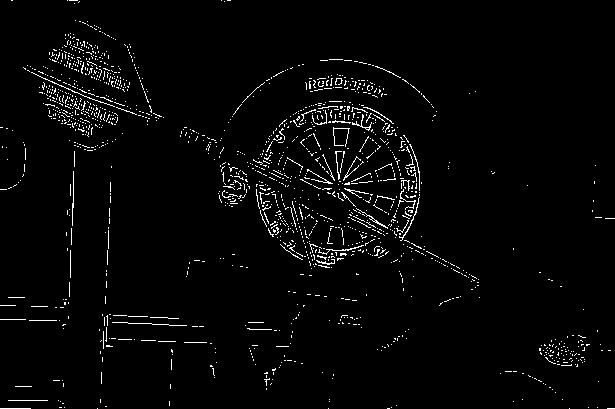
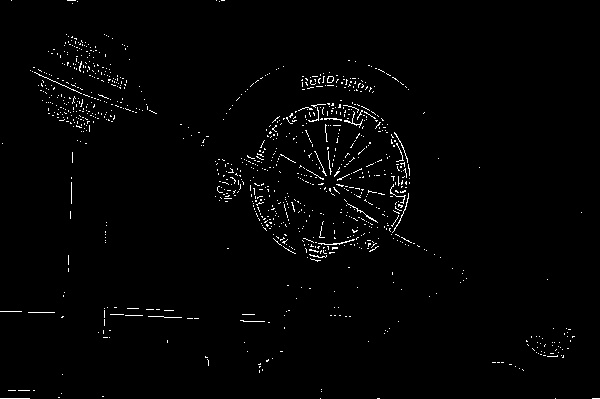
Upper bound image scaling function

diff --git a/task3/hough_detector.py b/task3/hough_detector.py
@@ -16,6 +16,8 @@ def gradient_direction(image):
       direction[row, col] = math.atan2(gradient_y[row, col], gradient_x[row, col])
   return cv2.normalize(direction, normalized, 0, 255, cv2.NORM_MINMAX)
 
+
+
 if __name__ == '__main__':
   image_path = sys.argv[1]
   image_name = image_path.split('/')[-1]
@@ -23,13 +25,19 @@ if __name__ == '__main__':
   image = cv2.imread(image_path)
   gray = cv2.cvtColor(image, cv2.COLOR_BGR2GRAY)
 
-  laplacian = cv2.Laplacian(gray, cv2.CV_64F, ksize=3)
+  # rotated_gray = cv2.rotate(resized_gray, cv2.ROTATE_90_CLOCKWISE)
+
+  resized_gray = util.image_bounds(gray, 600)
+
+  laplacian = cv2.Laplacian(resized_gray, cv2.CV_64F, ksize=3)
   edges = util.segment_by_threshold(laplacian, threshold = 250)
   labeled_file_name = image_name.replace("dart", "out/edges")
   cv2.imwrite(labeled_file_name, edges)
   
-  gradient_direction = gradient_direction(gray)
+  gradient_direction = gradient_direction(resized_gray)
   labeled_file_name = image_name.replace("dart", "out/gradient_dir")
   cv2.imwrite(labeled_file_name, gradient_direction)
 
   # util.show_image(gradient_direction)
+
+

diff --git a/util.py b/util.py
@@ -42,3 +42,25 @@ def segment_by_threshold(image, threshold):
 def normalize(image, min_value, max_value):
   normalized = np.empty(image.shape)
   return cv2.normalize(image, normalized, min_value, max_value, cv2.NORM_MINMAX)
+
+def image_bounds(image, pixel_value):
+  width = np.size(image, 0); height = np.size(image,1)
+  pixel_bound_x = pixel_value ; pixel_bound_y = pixel_value; scale_percent = 1
+
+  if (width > pixel_bound_x or height > pixel_bound_y):
+    ratioX = (pixel_bound_x/width)
+    ratioY = (pixel_bound_y/height)
+    if (width > height):
+      scale_percent = ratioX
+    else: 
+      scale_percent = ratioY
+
+  width = int(image.shape[1] * scale_percent)
+  print("New width:", width)
+  height = int(image.shape[0] * scale_percent)
+  print("New height:", height)
+
+  dim = (width, height)
+  resized_gray = cv2.resize(image, dim, cv2.INTER_AREA)
+
+  return resized_gray
